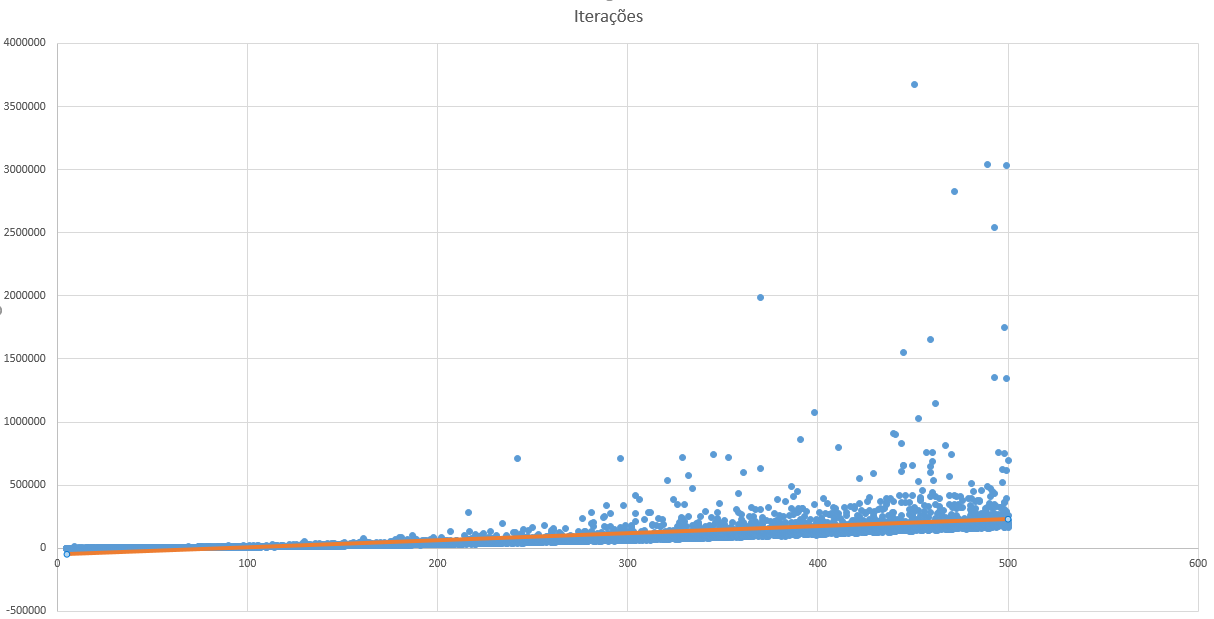
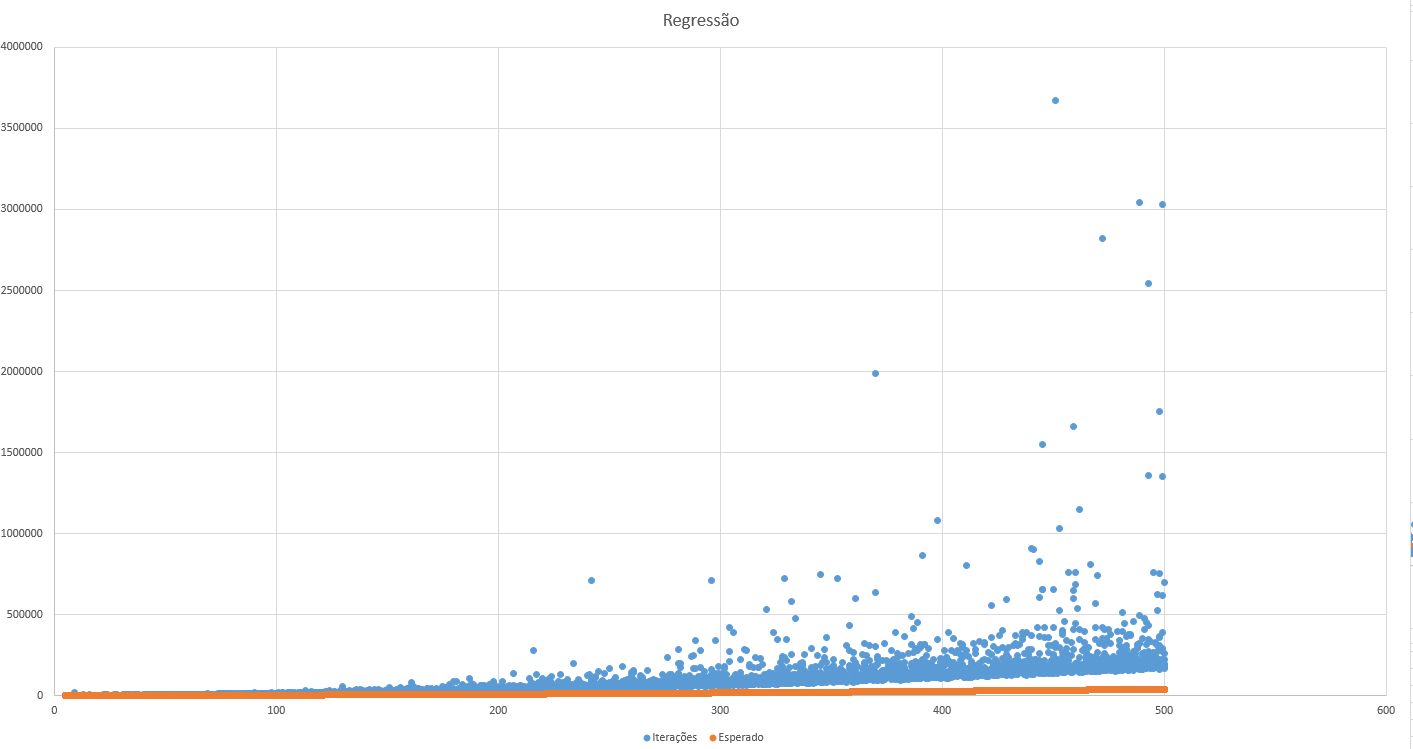
adding images

diff --git a/README.md b/README.md
@@ -5,6 +5,7 @@ Imprementar um algoritmo para o [n-queens problem](https://en.wikipedia.org/wiki
 # Implementação
 
 Foi utilizado um algorítmo de busca local de conflito minimo.
+![](https://raw.githubusercontent.com/BeholderDEV/discretequeensproblem/master/doc/program.PNG)
 
 # Coleta de Dados
 
@@ -13,8 +14,20 @@ Os dados foram coletados a partir de uma rotina que gera 10 teste para cada tama
 # Resultados
 
 Comparando os dados podemos concluir que 
+
+Disperção por Iterações
+
+![](https://raw.githubusercontent.com/BeholderDEV/discretequeensproblem/master/doc/dispercao_iteracoes.PNG)
+
+Dispersão por tempo
+![](https://raw.githubusercontent.com/BeholderDEV/discretequeensproblem/master/doc/dispercao_tempo.PNG)
+
+Regressão
 ```math
 y = n ^ 1.740
 ```
+![](https://raw.githubusercontent.com/BeholderDEV/discretequeensproblem/master/doc/dispercao_itaracao_regressao.PNG)
+
+
 
 
